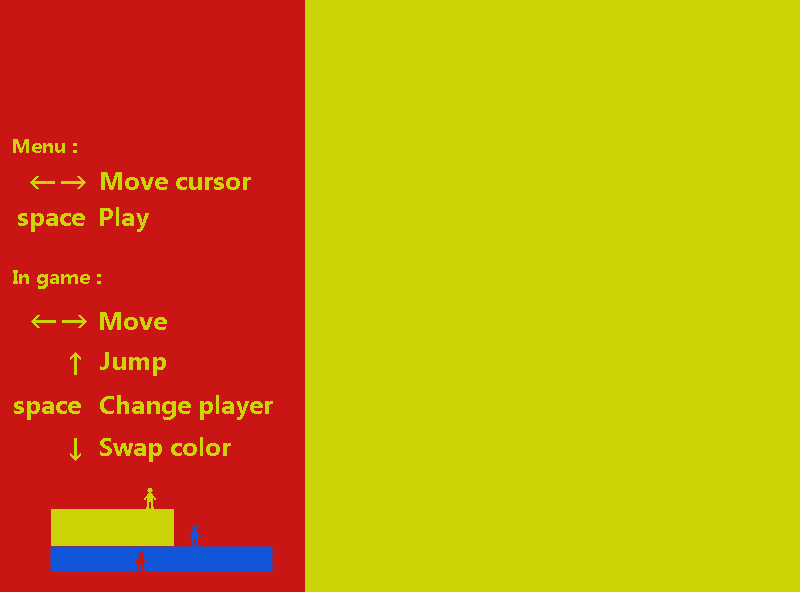
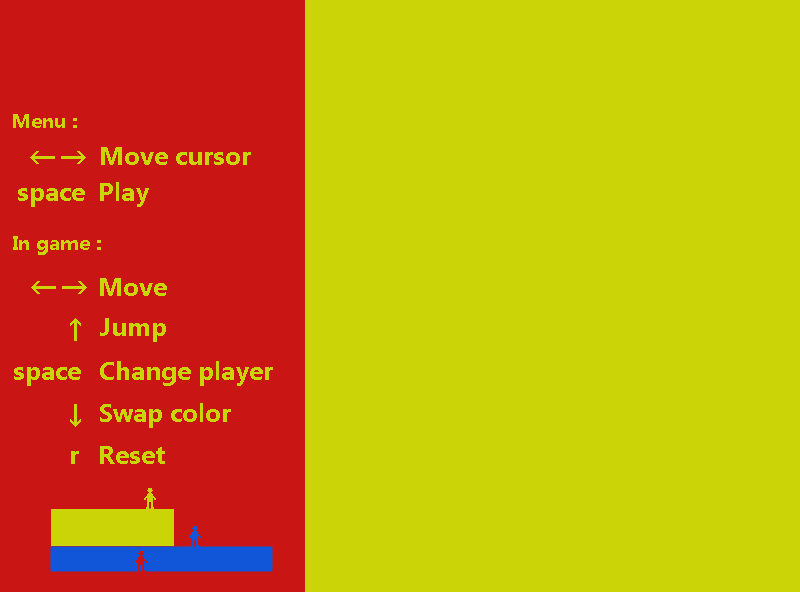
Added reset to list of controls on menu

Changed region(s): [[0.0, 0.4561, 0.3438, 0.7905], [0.0, 0.1824, 0.3125, 0.4257]]

diff --git a/menu.js b/menu.js
@@ -68,16 +68,16 @@
                 mn.settings.ctx.fillStyle = 'CAD506';
                 mn.settings.ctx.fillText("Fewest color swaps:",
                                          30,
-                                         45);
+                                         40);
                 mn.settings.ctx.fillText(localStorage.getItem(highlightedLevel.toString() + ".changes"),
                                          240,
-                                         45);
+                                         40);
                 mn.settings.ctx.fillText("Fewest remaining colors:",
                                          30,
-                                         85);
+                                         75);
                 mn.settings.ctx.fillText(localStorage.getItem(highlightedLevel.toString() + ".colors"),
                                          240,
-                                         85);
+                                         75);
             }
         },
 
